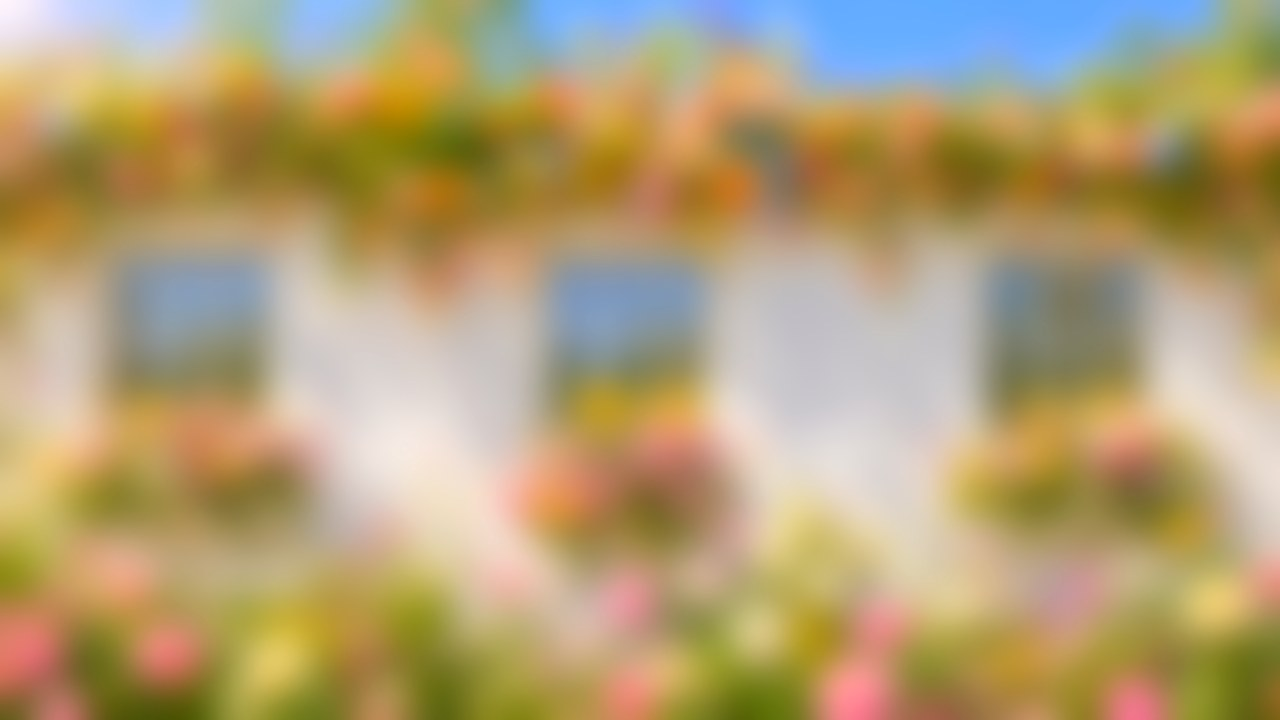
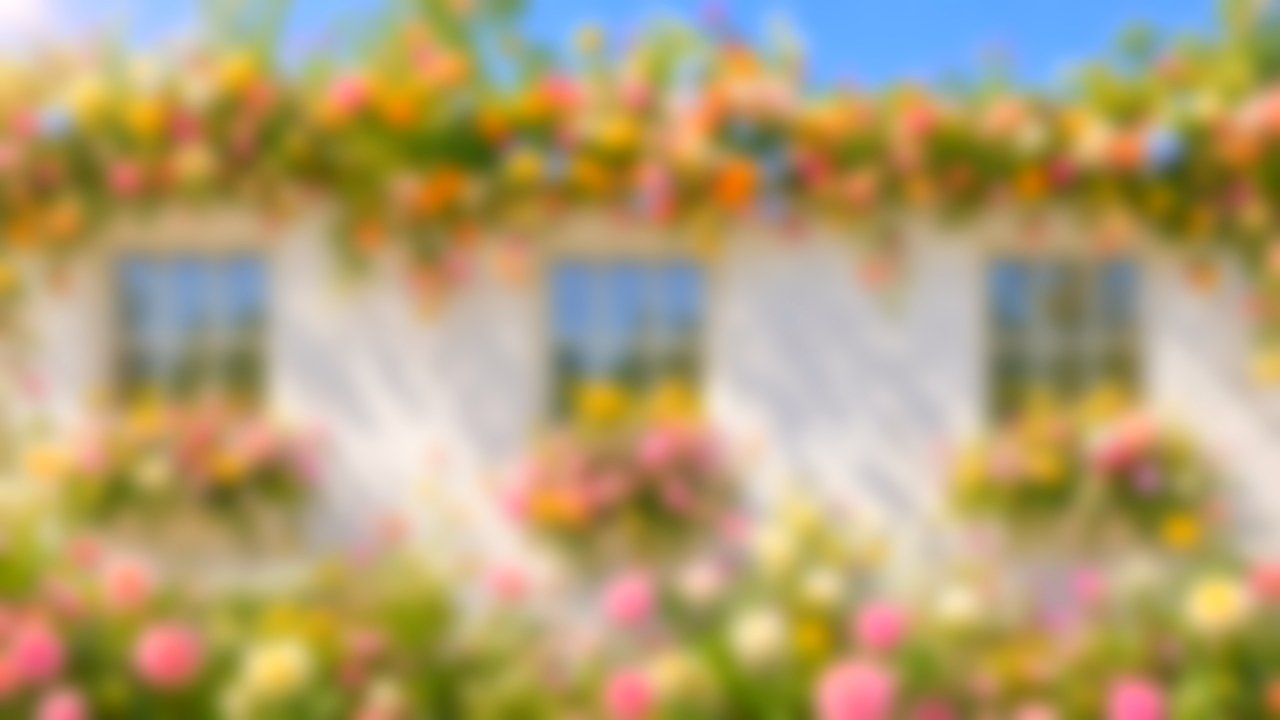
Screensaver blur 16px

diff --git a/src/tvui/static/index.html b/src/tvui/static/index.html
@@ -79,7 +79,7 @@
     background-color: #f6f3ee; background-image: url(/saver.jpg); background-repeat: no-repeat;
     background-position: center; -webkit-background-size: cover; background-size: cover; }
   #saver.on { display: block; }
-  /* The photo behind the text is blurred 28px, saturate 160%, brightness 104% across the whole
+  /* The photo behind the text is blurred 16px, saturate 160%, brightness 104% across the whole
      screen (baked into saver.jpg: backdrop-filter isn't supported on this TV). */
   #saver .wall, #saver .right { position: absolute; width: 16rem; text-align: center;
     text-shadow: 0 0 .9rem rgba(255,255,255,.9), 0 0 .25rem rgba(255,255,255,.8); }
